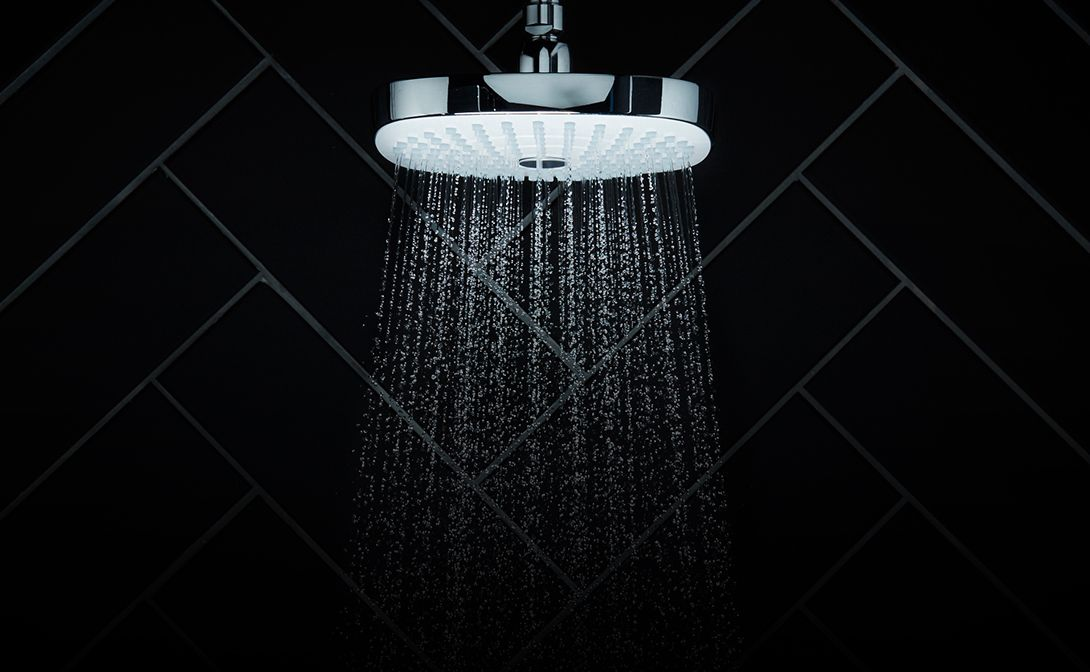
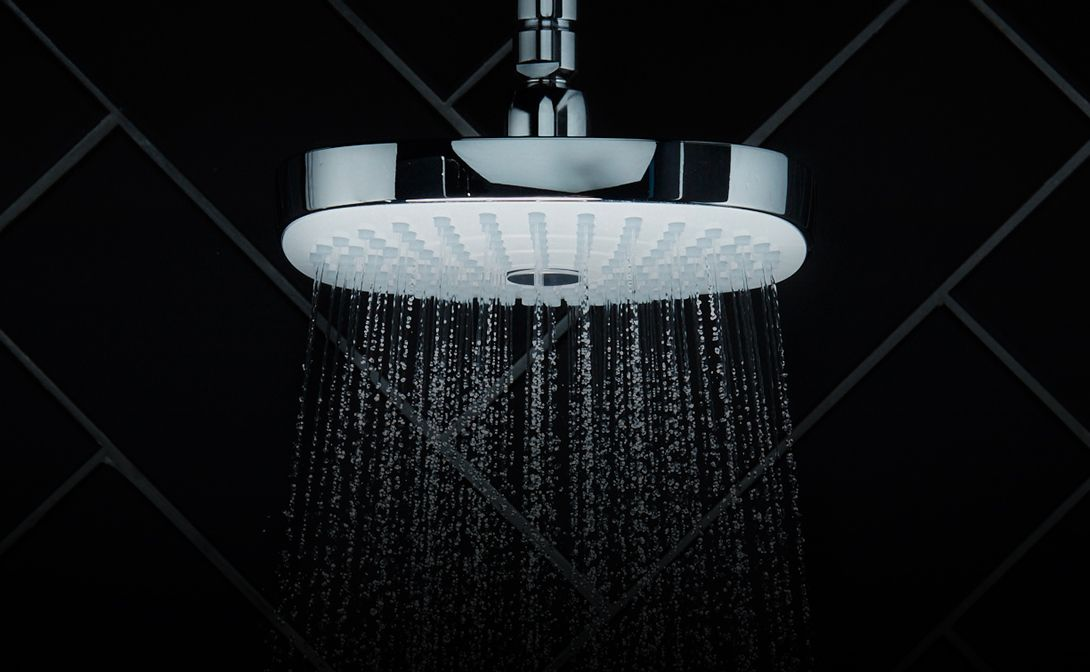
Add shower technology new images.

diff --git a/bathroom-happiness/water-therapy.php b/bathroom-happiness/water-therapy.php
@@ -1263,7 +1263,7 @@
                         <div class="shower-technology-flip">
                           <div class="front">
                             <figure class="image">
-                              <img src="images/water_therapy/shower.png" alt="Shower">
+                              <img src="images/water_therapy/shower_technology/showering-technology-waterfall.jpg" alt="Waterfall Shower">
                             </figure>
                             <div class="icon-wrap">
                                 <svg class="icon shape-waterfall"><use xlink:href="#shape-waterfall"></use></svg>
@@ -1318,7 +1318,7 @@
                         <div class="shower-technology-flip">
                           <div class="front">
                             <figure class="image">
-                              <img src="images/water_therapy/shower.png" alt="Shower">
+                              <img src="images/water_therapy/shower_technology/showering-technology-led.jpg" alt="Led Shower">
                             </figure>
                             <div class="icon-wrap">
                                 <svg class="icon shape-led"><use xlink:href="#shape-led"></use></svg>
@@ -1374,7 +1374,7 @@
                         <div class="shower-technology-flip">
                           <div class="front">
                             <figure class="image">
-                              <img src="images/water_therapy/shower.png" alt="Shower">
+                              <img src="images/water_therapy/shower_technology/showering-technology-turbine.jpg" alt="Turbine Shower">
                             </figure>
                             <div class="icon-wrap">
                                 <svg class="icon shape-turbine"><use xlink:href="#shape-turbine"></use></svg>
@@ -1401,7 +1401,7 @@
                         <div class="shower-technology-flip">
                           <div class="front">
                             <figure class="image">
-                              <img src="images/water_therapy/shower.png" alt="Shower">
+                              <img src="images/water_therapy/shower_technology/showering-technology-raindance.jpg" alt="Raindance Shower">
                             </figure>
                             <div class="icon-wrap">
                                 <svg class="icon shape-raindance"><use xlink:href="#shape-raindance"></use></svg>
@@ -1429,7 +1429,7 @@
                         <div class="shower-technology-flip">
                           <div class="front">
                             <figure class="image">
-                              <img src="images/water_therapy/shower.png" alt="Shower">
+                              <img src="images/water_therapy/shower_technology/showering-technology-soft-rain.jpg" alt="Soft Rain Shower">
                             </figure>
                             <div class="icon-wrap">
                                 <svg class="icon shape-soft-rain"><use xlink:href="#shape-soft-rain"></use></svg>
@@ -1485,7 +1485,7 @@
                         <div class="shower-technology-flip">
                           <div class="front">
                             <figure class="image">
-                              <img src="images/water_therapy/shower.png" alt="Shower">
+                              <img src="images/water_therapy/shower_technology/showering-technology-massage.jpg" alt="Massage Shower">
                             </figure>
                             <div class="icon-wrap">
                                 <svg class="icon shape-massage"><use xlink:href="#shape-massage"></use></svg>
